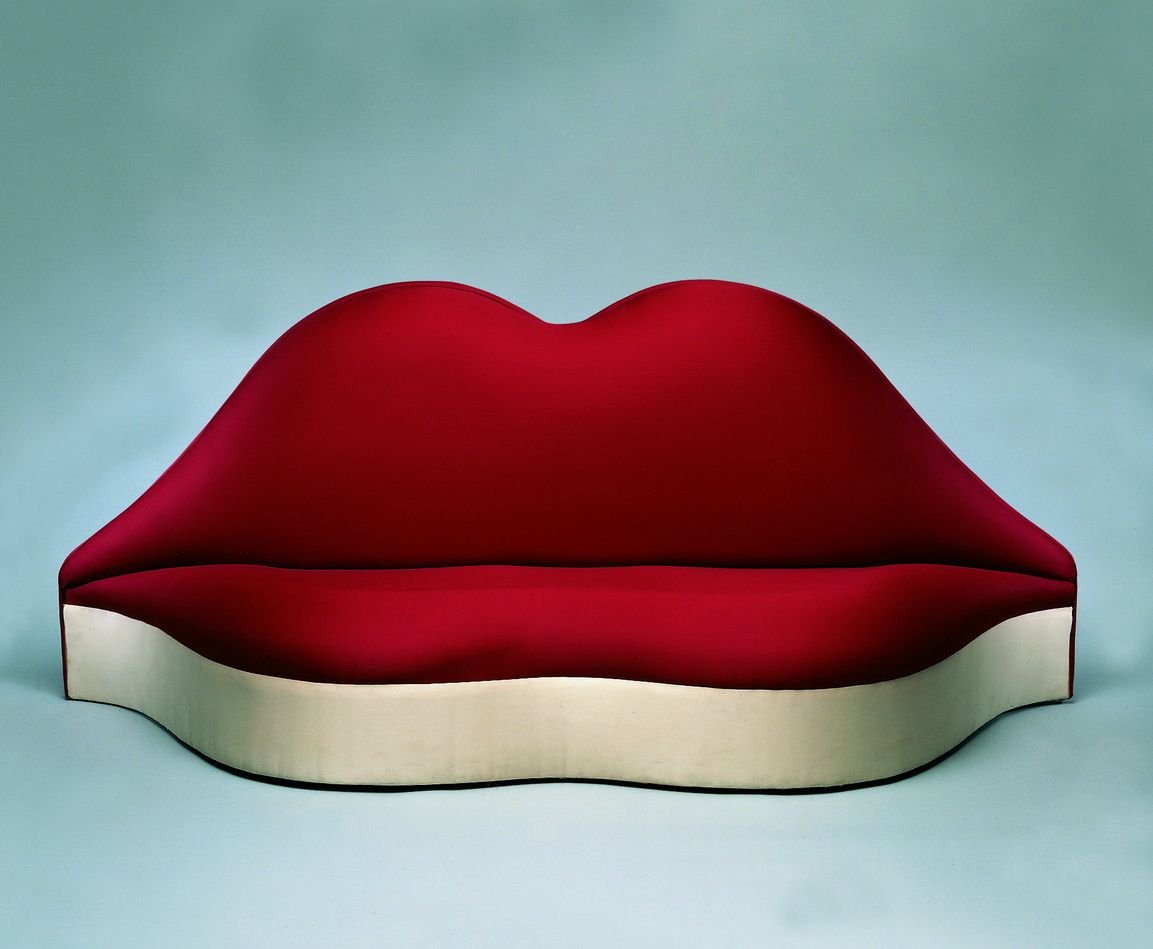
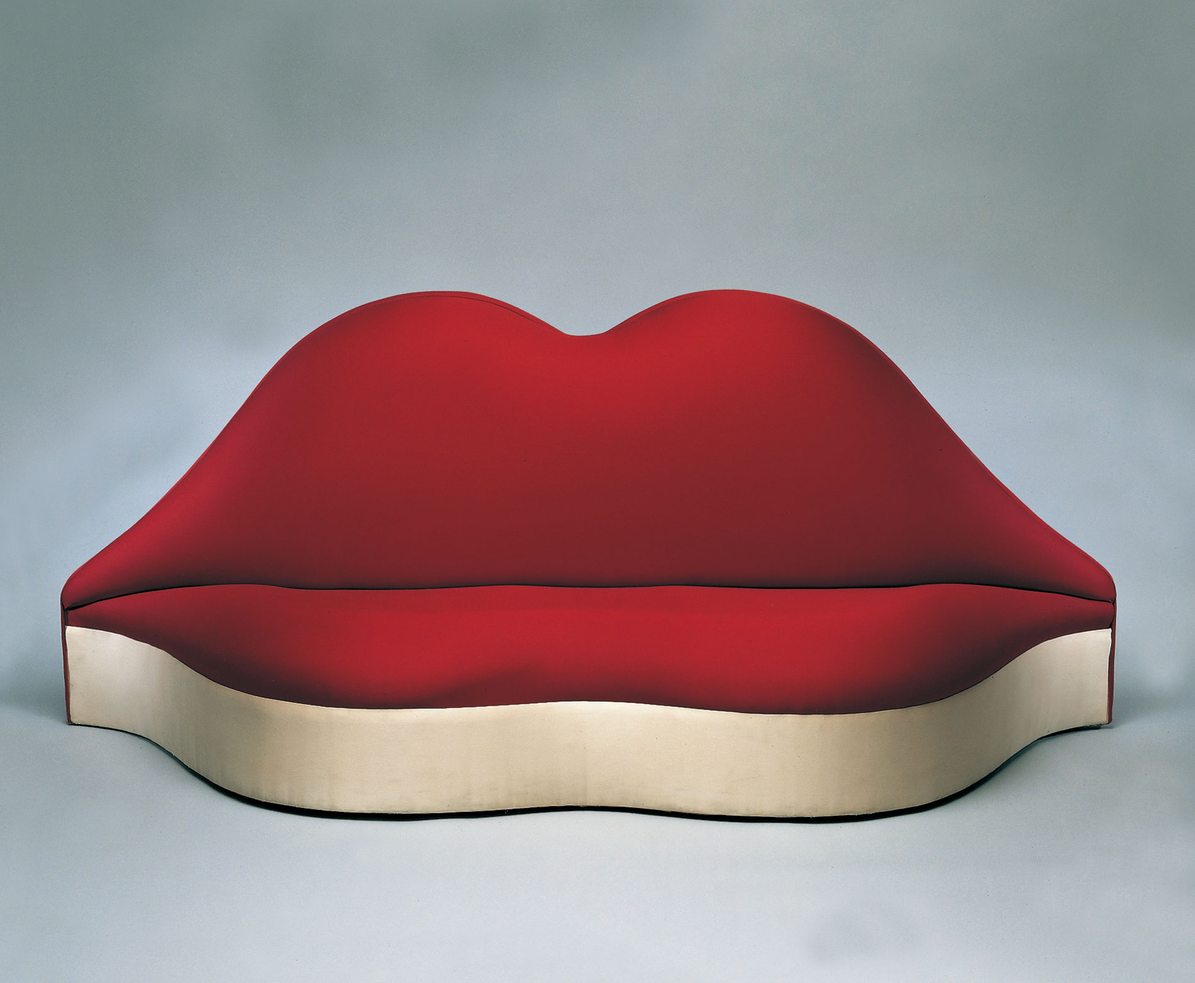
png to jpg

Changed region(s): [[0.0311, 0.2803, 0.9324, 0.8098]]

diff --git a/products/index.md b/products/index.md
@@ -6,5 +6,5 @@ tags: [油菜花, yocava, 移动互联网, 产品]
 nobrand: true
 headline: Sit down and wait for change...
 image:
-  feature: mae-west-lips-sofa.png
+  feature: mae-west-lips-sofa.jpg
 ---
